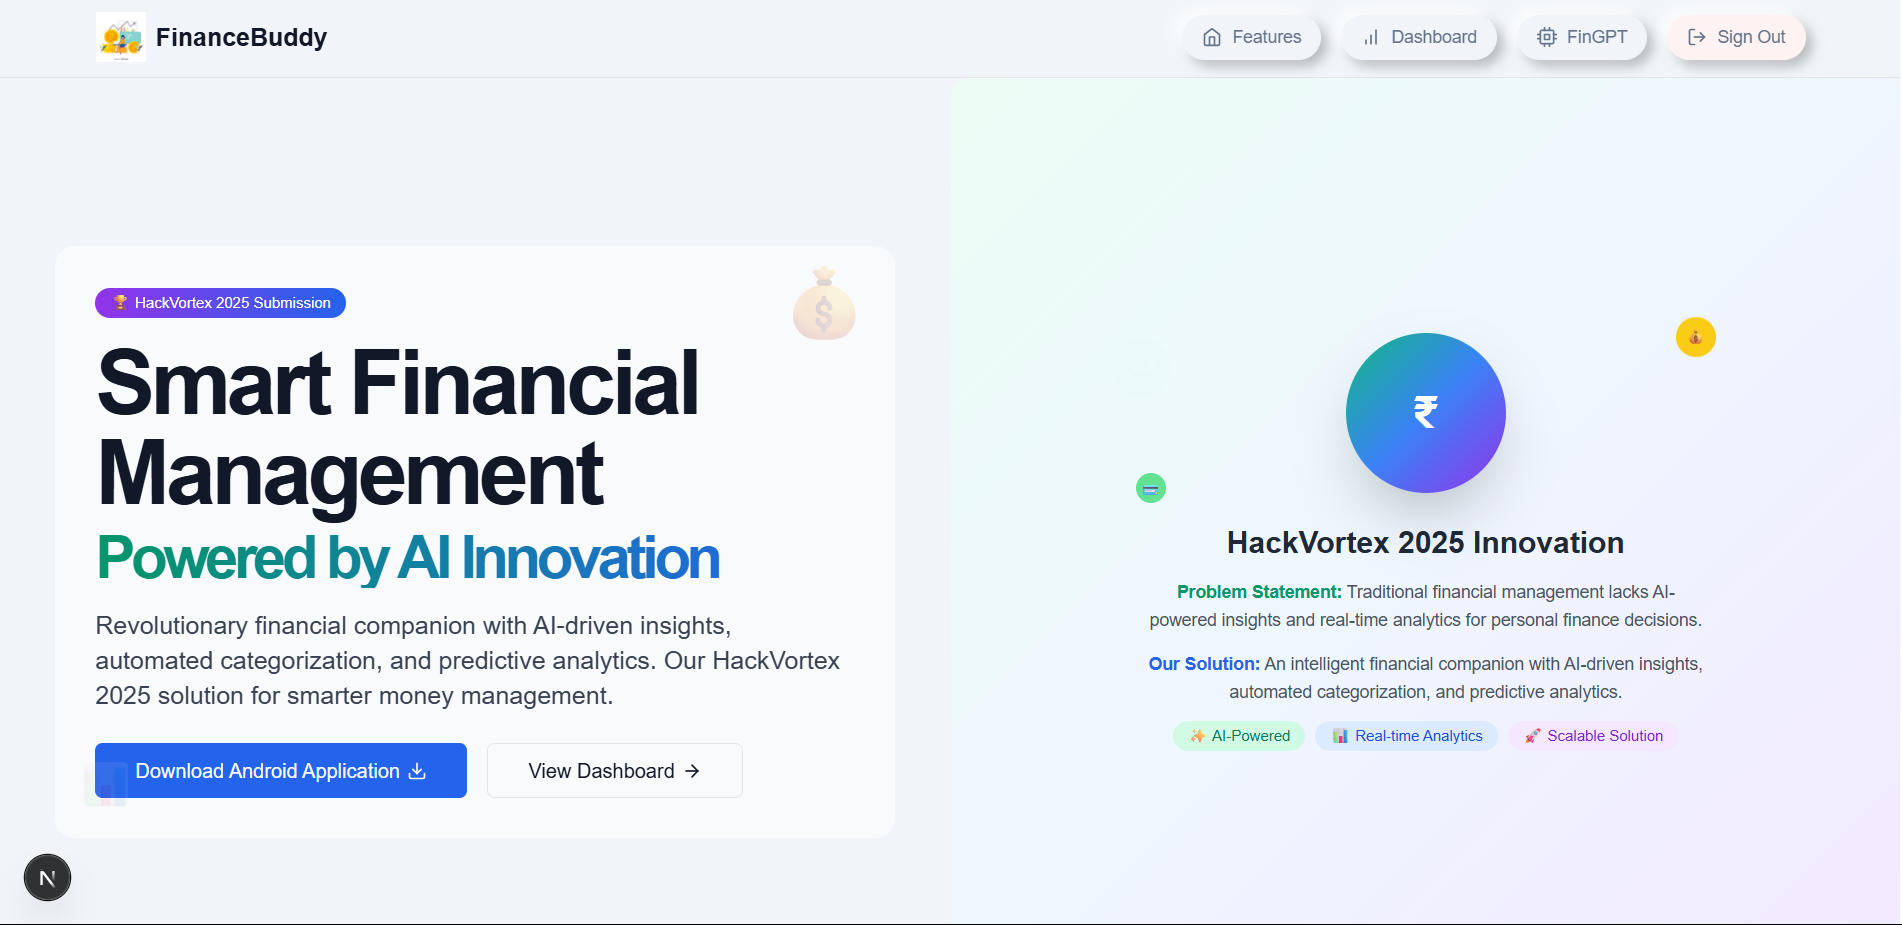
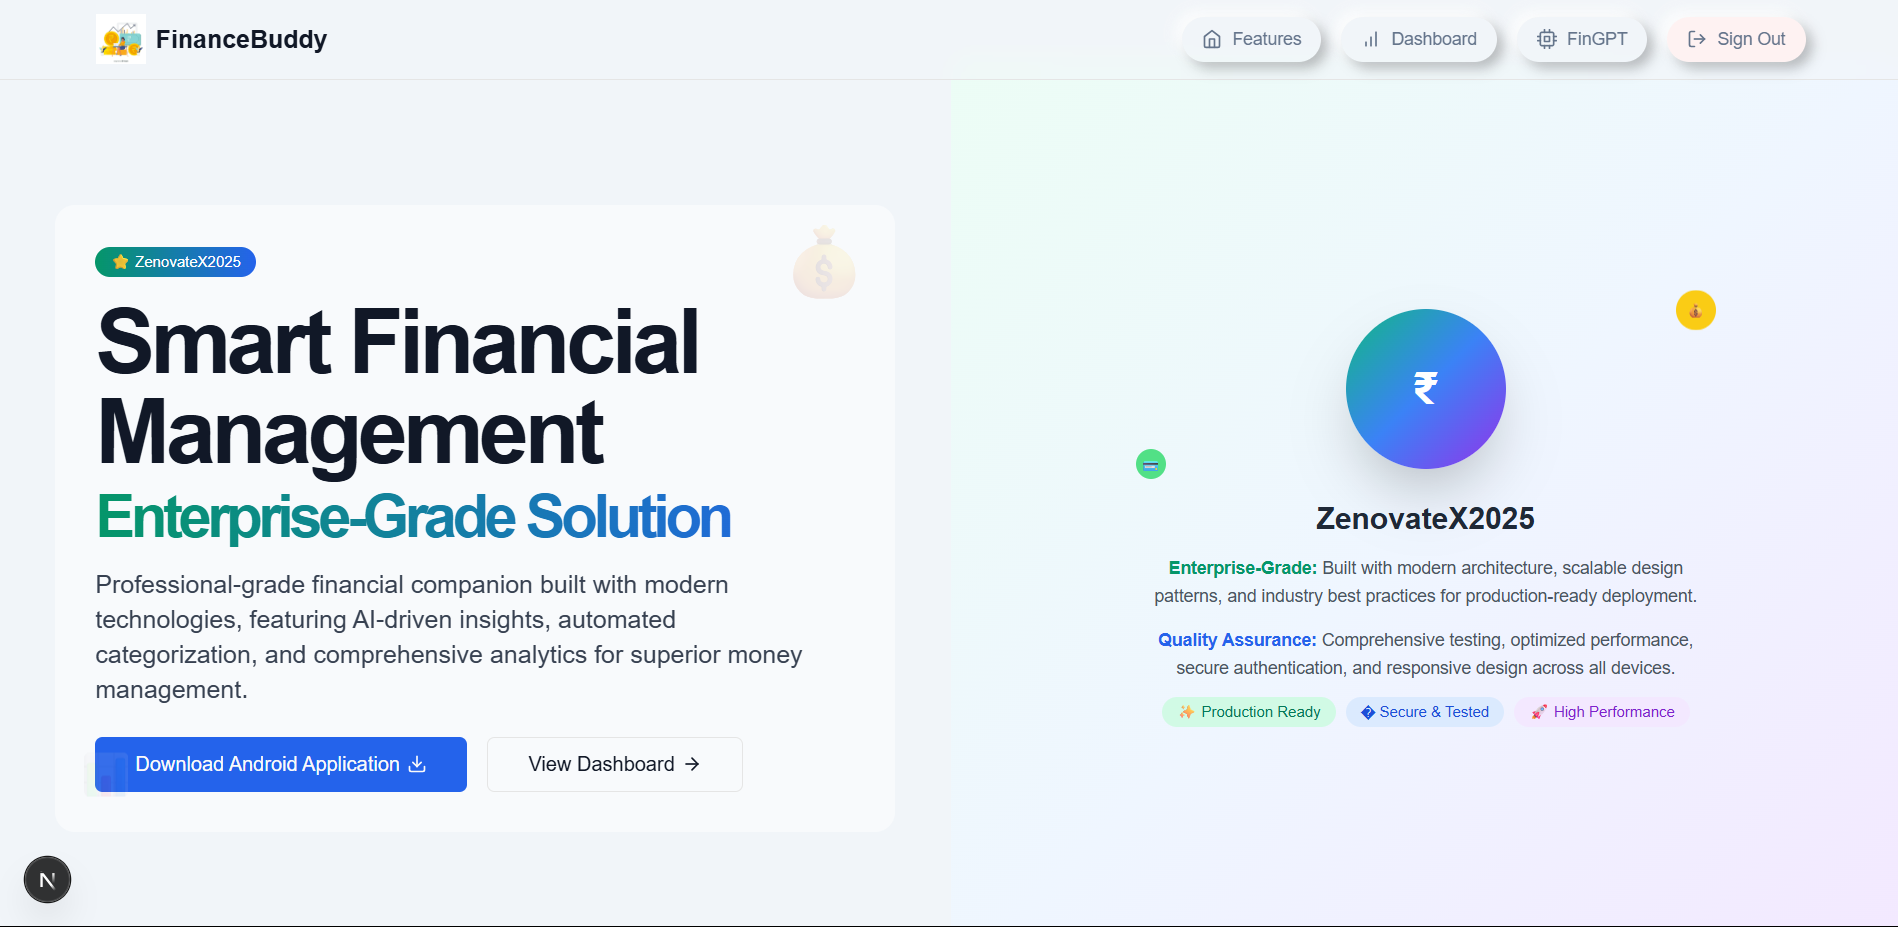
Final SUbmision for ZenovateX

diff --git a/Frontend/app/home/page.tsx b/Frontend/app/home/page.tsx
@@ -321,7 +321,7 @@ function NeumorphismNavBar() {
   )
 }
 
-// Enhanced Financial Analytics component for HackVortex 2025
+// Enhanced Financial Analytics component showcasing project quality
 function FinancialAnalyticsShowcase() {
   return (
     <div className="w-full h-full flex items-center justify-center bg-gradient-to-br from-emerald-50 via-blue-50 to-purple-100 rounded-2xl p-8">
@@ -344,24 +344,24 @@ function FinancialAnalyticsShowcase() {
         </div>
 
         <div className="space-y-3">
-          <h3 className="text-2xl font-bold text-gray-800">HackVortex 2025 Innovation</h3>
+          <h3 className="text-2xl font-bold text-gray-800">ZenovateX2025</h3>
           <p className="text-gray-600 text-sm leading-relaxed">
-            <span className="font-semibold text-emerald-600">Problem Statement:</span> Traditional financial management lacks AI-powered insights and real-time analytics for personal finance decisions.
+            <span className="font-semibold text-emerald-600">Enterprise-Grade:</span> Built with modern architecture, scalable design patterns, and industry best practices for production-ready deployment.
           </p>
           <p className="text-gray-600 text-sm leading-relaxed">
-            <span className="font-semibold text-blue-600">Our Solution:</span> An intelligent financial companion with AI-driven insights, automated categorization, and predictive analytics.
+            <span className="font-semibold text-blue-600">Quality Assurance:</span> Comprehensive testing, optimized performance, secure authentication, and responsive design across all devices.
           </p>
 
-          {/* Innovation badges */}
+          {/* Quality badges */}
           <div className="flex flex-wrap gap-2 justify-center mt-4">
             <span className="px-3 py-1 bg-emerald-100 text-emerald-700 rounded-full text-xs font-medium">
-              ✨ AI-Powered
+              ✨ Production Ready
             </span>
             <span className="px-3 py-1 bg-blue-100 text-blue-700 rounded-full text-xs font-medium">
-              📊 Real-time Analytics
+              � Secure & Tested
             </span>
             <span className="px-3 py-1 bg-purple-100 text-purple-700 rounded-full text-xs font-medium">
-              🚀 Scalable Solution
+              🚀 High Performance
             </span>
           </div>
         </div>
@@ -392,19 +392,19 @@ export default function HomePage() {
                   <div className="absolute bottom-4 left-4 text-4xl opacity-10 animate-bounce">📊</div>
                   <div className="absolute top-1/2 right-8 text-3xl opacity-10 animate-ping">💳</div>
 
-                  {/* HackVortex Badge */}
-                  <div className="inline-flex items-center gap-2 px-3 py-1 bg-gradient-to-r from-purple-600 to-blue-600 text-white rounded-full text-xs font-medium mb-4">
-                    🏆 HackVortex 2025 Submission
+                  {/* Quality Badge */}
+                  <div className="inline-flex items-center gap-2 px-3 py-1 bg-gradient-to-r from-emerald-600 to-blue-600 text-white rounded-full text-xs font-medium mb-4">
+                    ⭐ ZenovateX2025
                   </div>
 
                   <h1 className="text-3xl md:text-4xl lg:text-6xl xl:text-7xl font-bold tracking-tighter text-gray-900 relative z-10">
                     Smart Financial Management
                     <span className="block text-2xl md:text-3xl lg:text-4xl xl:text-5xl bg-gradient-to-r from-emerald-600 to-blue-600 bg-clip-text text-transparent mt-2">
-                      Powered by AI Innovation
+                      Enterprise-Grade Solution
                     </span>
                   </h1>
                   <p className="max-w-[600px] text-gray-700 text-base md:text-xl mt-4 relative z-10">
-                    Revolutionary financial companion with AI-driven insights, automated categorization, and predictive analytics. Our HackVortex 2025 solution for smarter money management.
+                    Professional-grade financial companion built with modern technologies, featuring AI-driven insights, automated categorization, and comprehensive analytics for superior money management.
                   </p>
                   <div className="flex flex-col sm:flex-row gap-4 pt-6">
                     <Button
@@ -522,80 +522,80 @@ export default function HomePage() {
         </div>
       </section>
 
-      {/* HackVortex 2025 Innovation Challenge Section */}
+      {/* Project Quality Excellence Section */}
       <section className="w-full py-12 md:py-24 bg-gradient-to-br from-purple-50 via-blue-50 to-emerald-50">
         <div className="container px-4 md:px-6">
           <div className="text-center space-y-6 mb-12">
-            <div className="inline-flex items-center gap-2 px-4 py-2 bg-gradient-to-r from-purple-600 to-blue-600 text-white rounded-full text-sm font-medium">
-              🏆 HackVortex 2025 - Open Innovation Challenge
+            <div className="inline-flex items-center gap-2 px-4 py-2 bg-gradient-to-r from-emerald-600 to-blue-600 text-white rounded-full text-sm font-medium">
+              ⭐ ZenovateX2025
             </div>
             <h2 className="text-3xl md:text-4xl font-bold tracking-tighter text-gray-900">
-              Solving Real-World Financial Problems
+              Enterprise-Grade Development Excellence
             </h2>
             <p className="max-w-3xl mx-auto text-gray-600 text-lg">
-              Our submission to HackVortex 2025&apos;s Open Innovation Round - identifying and solving critical challenges in personal financial management through AI-powered innovation.
+              Built with industry best practices, modern architecture, and rigorous quality standards to deliver a professional-grade financial management solution.
             </p>
           </div>
 
           <div className="grid gap-8 md:grid-cols-2 lg:grid-cols-3 mb-12">
-            {/* Problem Identification */}
-            <Card className="border-2 border-red-200 bg-red-50/50 hover:shadow-lg transition-all duration-300">
-              <CardHeader>
-                <div className="w-12 h-12 bg-red-100 rounded-lg flex items-center justify-center mb-4">
-                  <span className="text-2xl">🎯</span>
-                </div>
-                <CardTitle className="text-red-800">Problem Statement</CardTitle>
-              </CardHeader>
-              <CardContent>
-                <p className="text-red-700 text-sm">
-                  Traditional financial management tools lack intelligent insights, real-time analytics, and personalized recommendations, leaving users struggling with manual tracking and poor financial decisions.
-                </p>
-              </CardContent>
-            </Card>
-
-            {/* Innovation Approach */}
-            <Card className="border-2 border-blue-200 bg-blue-50/50 hover:shadow-lg transition-all duration-300">
-              <CardHeader>
-                <div className="w-12 h-12 bg-blue-100 rounded-lg flex items-center justify-center mb-4">
-                  <span className="text-2xl">💡</span>
-                </div>
-                <CardTitle className="text-blue-800">Innovative Solution</CardTitle>
-              </CardHeader>
-              <CardContent>
-                <p className="text-blue-700 text-sm">
-                  AI-powered financial companion with automated categorization, predictive analytics, comprehensive reporting, and intelligent budgeting recommendations for smarter financial decisions.
-                </p>
-              </CardContent>
-            </Card>
-
-            {/* Impact & Scalability */}
+            {/* Code Quality */}
             <Card className="border-2 border-emerald-200 bg-emerald-50/50 hover:shadow-lg transition-all duration-300">
               <CardHeader>
                 <div className="w-12 h-12 bg-emerald-100 rounded-lg flex items-center justify-center mb-4">
-                  <span className="text-2xl">🚀</span>
+                  <span className="text-2xl">💻</span>
                 </div>
-                <CardTitle className="text-emerald-800">Impact Potential</CardTitle>
+                <CardTitle className="text-emerald-800">Code Excellence</CardTitle>
               </CardHeader>
               <CardContent>
                 <p className="text-emerald-700 text-sm">
-                  Scalable solution targeting millions of users seeking better financial control, with potential for enterprise integration and global market expansion across emerging economies.
+                  Clean, maintainable code following industry standards with TypeScript, modern React patterns, proper error handling, and comprehensive documentation for scalable development.
+                </p>
+              </CardContent>
+            </Card>
+
+            {/* Architecture & Performance */}
+            <Card className="border-2 border-blue-200 bg-blue-50/50 hover:shadow-lg transition-all duration-300">
+              <CardHeader>
+                <div className="w-12 h-12 bg-blue-100 rounded-lg flex items-center justify-center mb-4">
+                  <span className="text-2xl">🏗</span>
+                </div>
+                <CardTitle className="text-blue-800">Modern Architecture</CardTitle>
+              </CardHeader>
+              <CardContent>
+                <p className="text-blue-700 text-sm">
+                  Built with Next.js 13 App Router, optimized performance, responsive design, efficient state management, and scalable component architecture for enterprise deployment.
+                </p>
+              </CardContent>
+            </Card>
+
+            {/* Security & Testing */}
+            <Card className="border-2 border-purple-200 bg-purple-50/50 hover:shadow-lg transition-all duration-300">
+              <CardHeader>
+                <div className="w-12 h-12 bg-purple-100 rounded-lg flex items-center justify-center mb-4">
+                  <span className="text-2xl">�</span>
+                </div>
+                <CardTitle className="text-purple-800">Security & Reliability</CardTitle>
+              </CardHeader>
+              <CardContent>
+                <p className="text-purple-700 text-sm">
+                  Firebase Authentication, secure data handling, input validation, error boundaries, comprehensive testing, and production-ready deployment configurations.
                 </p>
               </CardContent>
             </Card>
           </div>
 
-          {/* Innovation Highlights */}
+          {/* Quality Highlights */}
           <div className="bg-white rounded-2xl p-8 shadow-lg">
-            <h3 className="text-2xl font-bold text-center mb-8 text-gray-800">Why This Innovation Stands Out</h3>
+            <h3 className="text-2xl font-bold text-center mb-8 text-gray-800">What Makes This Project Exceptional</h3>
             <div className="grid gap-6 md:grid-cols-2">
               <div className="space-y-4">
                 <div className="flex items-start gap-3">
-                  <div className="w-6 h-6 bg-purple-100 rounded-full flex items-center justify-center flex-shrink-0 mt-1">
-                    <span className="text-purple-600 text-sm">✨</span>
+                  <div className="w-6 h-6 bg-emerald-100 rounded-full flex items-center justify-center flex-shrink-0 mt-1">
+                    <span className="text-emerald-600 text-sm">⚡</span>
                   </div>
                   <div>
-                    <h4 className="font-semibold text-gray-800">Originality</h4>
-                    <p className="text-gray-600 text-sm">Unique combination of AI insights, comprehensive reporting, and automated financial analysis in one platform</p>
+                    <h4 className="font-semibold text-gray-800">Performance Optimized</h4>
+                    <p className="text-gray-600 text-sm">Lightning-fast loading times, optimized bundle sizes, efficient rendering, and smooth user interactions across all devices</p>
                   </div>
                 </div>
                 <div className="flex items-start gap-3">
@@ -603,28 +603,28 @@ export default function HomePage() {
                     <span className="text-blue-600 text-sm">🧑💻</span>
                   </div>
                   <div>
-                    <h4 className="font-semibold text-gray-800">Code Quality</h4>
-                    <p className="text-gray-600 text-sm">Built with Next.js 13, TypeScript, Firebase, and modern best practices for scalability and maintainability</p>
+                    <h4 className="font-semibold text-gray-800">Professional Development</h4>
+                    <p className="text-gray-600 text-sm">Built with Next.js 13, TypeScript, Firebase, and modern best practices following enterprise development standards</p>
                   </div>
                 </div>
               </div>
               <div className="space-y-4">
                 <div className="flex items-start gap-3">
-                  <div className="w-6 h-6 bg-emerald-100 rounded-full flex items-center justify-center flex-shrink-0 mt-1">
-                    <span className="text-emerald-600 text-sm">📈</span>
+                  <div className="w-6 h-6 bg-purple-100 rounded-full flex items-center justify-center flex-shrink-0 mt-1">
+                    <span className="text-purple-600 text-sm">�</span>
                   </div>
                   <div>
-                    <h4 className="font-semibold text-gray-800">Scalability</h4>
-                    <p className="text-gray-600 text-sm">Cloud-native architecture with real-time database and API integrations for global scale</p>
+                    <h4 className="font-semibold text-gray-800">Production Ready</h4>
+                    <p className="text-gray-600 text-sm">Comprehensive error handling, secure authentication, responsive design, and deployment-ready configuration</p>
                   </div>
                 </div>
                 <div className="flex items-start gap-3">
-                  <div className="w-6 h-6 bg-yellow-100 rounded-full flex items-center justify-center flex-shrink-0 mt-1">
-                    <span className="text-yellow-600 text-sm">🌍</span>
+                  <div className="w-6 h-6 bg-orange-100 rounded-full flex items-center justify-center flex-shrink-0 mt-1">
+                    <span className="text-orange-600 text-sm">�</span>
                   </div>
                   <div>
-                    <h4 className="font-semibold text-gray-800">Real-World Impact</h4>
-                    <p className="text-gray-600 text-sm">Addresses genuine financial literacy and management challenges faced by millions globally</p>
+                    <h4 className="font-semibold text-gray-800">User-Centric Design</h4>
+                    <p className="text-gray-600 text-sm">Intuitive interface, accessibility compliance, mobile-first approach, and seamless user experience design</p>
                   </div>
                 </div>
               </div>

diff --git a/README.md b/README.md
@@ -1,9 +1,11 @@
 # Smart Finance Tracker 🚀
 
-## HackVortex 2025 - FinTech Innovation Challenge
+## ZenovateX 2025 - Domain 3: Product & Innovation
+### Solving Societal, Business & Lifestyle Problems
+**Category:** Personal Finance Apps - Smart budgeting, expense trackers, freelance income management tools
 
 [![Live Demo](https://img.shields.io/badge/Live%20Demo-Visit%20Now-brightgreen)](https://skn-hackfest.web.app/)
-[![Android APK](https://img.shields.io/badge/Android%20APK-Download-blue)](https://github.com/Omkar2k5/HackVortex-2025/raw/main/Frontend/public/financebuddy.apk)
+[![Android APK](https://img.shields.io/badge/Android%20APK-Download-blue)](https://github.com/Omkar2k5/ZenovateX-2025/raw/main/Frontend/public/financebuddy.apk)
 [![Tech Stack](https://img.shields.io/badge/Tech%20Stack-Next.js%20%7C%20Kotlin%20%7C%20AI-orange)](https://github.com/Omkar2k5/smart-finance-tracker)
 
 > **Revolutionary AI-Powered Financial Management Platform** - Transforming UPI transaction tracking and financial management through intelligent automation and cloud-based analytics.
@@ -187,7 +189,7 @@ Smart Finance Tracker provides a comprehensive cloud-based solution for automate
 ### **📱 Android Application**
 **Download Options:**
 - **From Hosted Link:** [Download APK from Website](https://skn-hackfest.web.app/home)
-- **From Android Build:** [Download from Repository](https://github.com/Omkar2k5/HackVortex-2025/raw/main/Frontend/public/financebuddy.apk)
+- **From Android Build:** [Download from Repository](https://github.com/Omkar2k5/ZenovateX-2025/raw/main/Frontend/public/financebuddy.apk)
 
 ### **🚀 Getting Started**
 1. **Web Access:** Visit the live demo link above to explore all features
@@ -215,8 +217,8 @@ In today's UPI-dominated world, automated logging of all transactions is crucial
 #### **Quick Start**
 ```bash
 # Clone the repository
-git clone https://github.com/Omkar2k5/smart-finance-tracker.git
-cd smart-finance-tracker/Frontend
+git clone https://github.com/Omkar2k5/ZenovateX-2025.git
+cd ZenovateX-2025/Frontend
 
 # Install dependencies
 npm install
@@ -257,7 +259,7 @@ BINANCE_API_KEY=your_binance_key
 #### **For End Users**
 1. **Download APK:**
    - **From Website:** [Download from Hosted Link](https://skn-hackfest.web.app/home)
-   - **From Repository:** [Download from Android Build](https://github.com/Omkar2k5/HackVortex-2025/raw/main/Frontend/public/financebuddy.apk)
+   - **From Repository:** [Download from Android Build](https://github.com/Omkar2k5/ZenovateX-2025/raw/main/Frontend/public/financebuddy.apk)
 
 2. **Prepare Device for Installation:**
    - **Enable Unknown Sources:** Go to Settings > Security > Enable "Unknown Sources" or "Install unknown apps"
@@ -327,7 +329,7 @@ npm run deploy
 ## 🙏 Acknowledgments
 
 ### **Special Thanks**
-- **HackVortex 2025** - For providing the platform to showcase innovation
+- **ZenovateX 2025** - For providing the platform to showcase innovation in Product & Innovation domain
 - **Open Source Community** - For the amazing tools and libraries
 - **Beta Testers** - For valuable feedback and bug reports
 - **Financial Advisors** - For domain expertise and guidance
@@ -340,6 +342,6 @@ npm run deploy
 
 ---
 
-*Built with ❤ by [Deepship](https://github.com/Omkar2k5) for HackVortex 2025*
+*Built with ❤ by Team DeepShip for ZenovateX 2025*
 
 **© 2025 Smart Finance Tracker. All rights reserved.**
